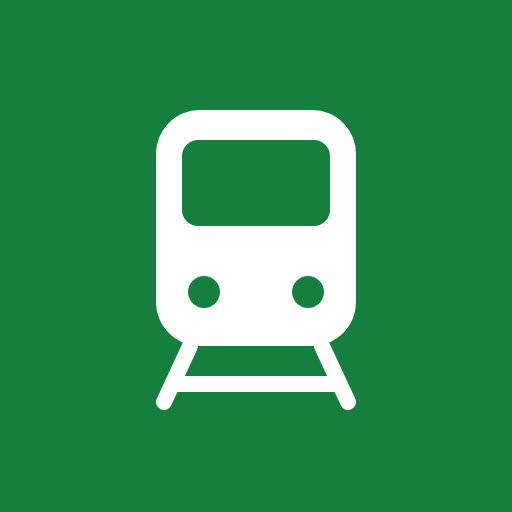
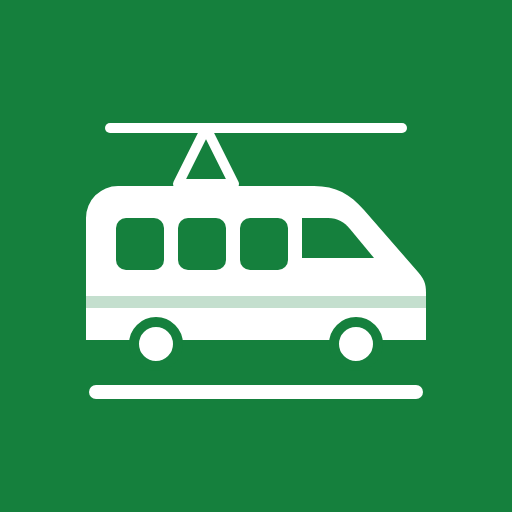
v0.12.1: Nytt appikon (tog fra siden) (#17)
Claude-Session: https://claude.ai/code/session_0121wHS8JUbzy8iV1KzDh5TL

Changed region(s): [[0.1562, 0.1875, 0.8438, 0.8125]]

diff --git a/src/version.js b/src/version.js
@@ -1,1 +1,1 @@
-export const APP_VERSION = '0.12.0'
+export const APP_VERSION = '0.12.1'

diff --git a/CHANGELOG.md b/CHANGELOG.md
@@ -1,3 +1,9 @@
+## 2026-10-02 — v0.12.1: Nytt appikon
+
+Appikonet er tegnet om som et enkelt tog sett fra siden, med pantograf, kjøreledning og skinne, hvitt på grønn flate. Samme motiv brukes som favicon.
+
+---
+
 ## 2026-10-02 — v0.12.0: Installer som app
 
 Pendlerkalkulator kan nå installeres som app (PWA). Siste steg i veiviseren har en avkrysning «Installer som app» som må huskes før den store knappen trykkes; på iOS vises en veiledning om Del → «Legg til på Hjem-skjerm». Valget ligger også nederst i innstillingene, og skjules når appen allerede er installert. Ny manifest, ikoner og service worker som lagrer appskallet for rask oppstart og oppstart uten dekning.
